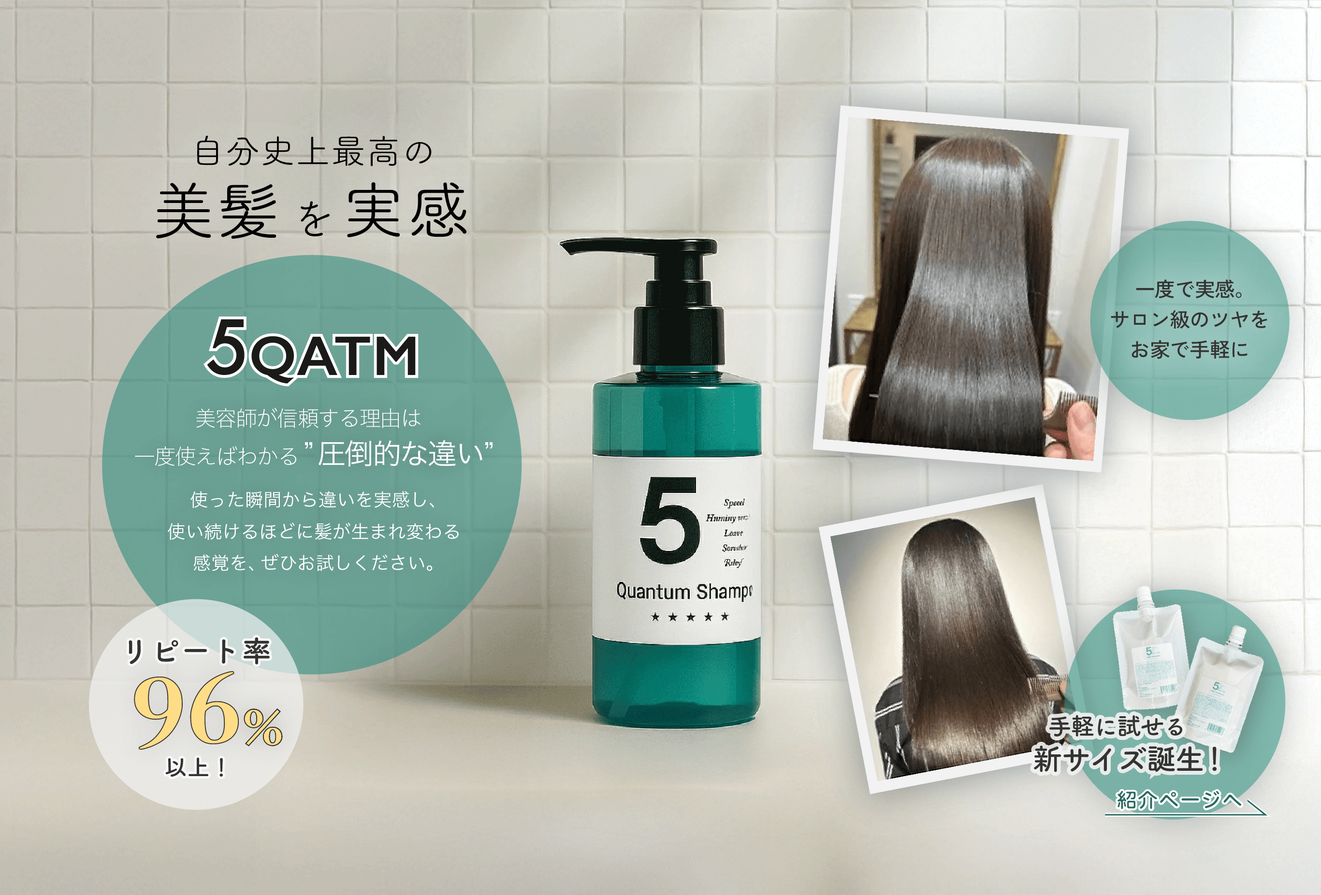
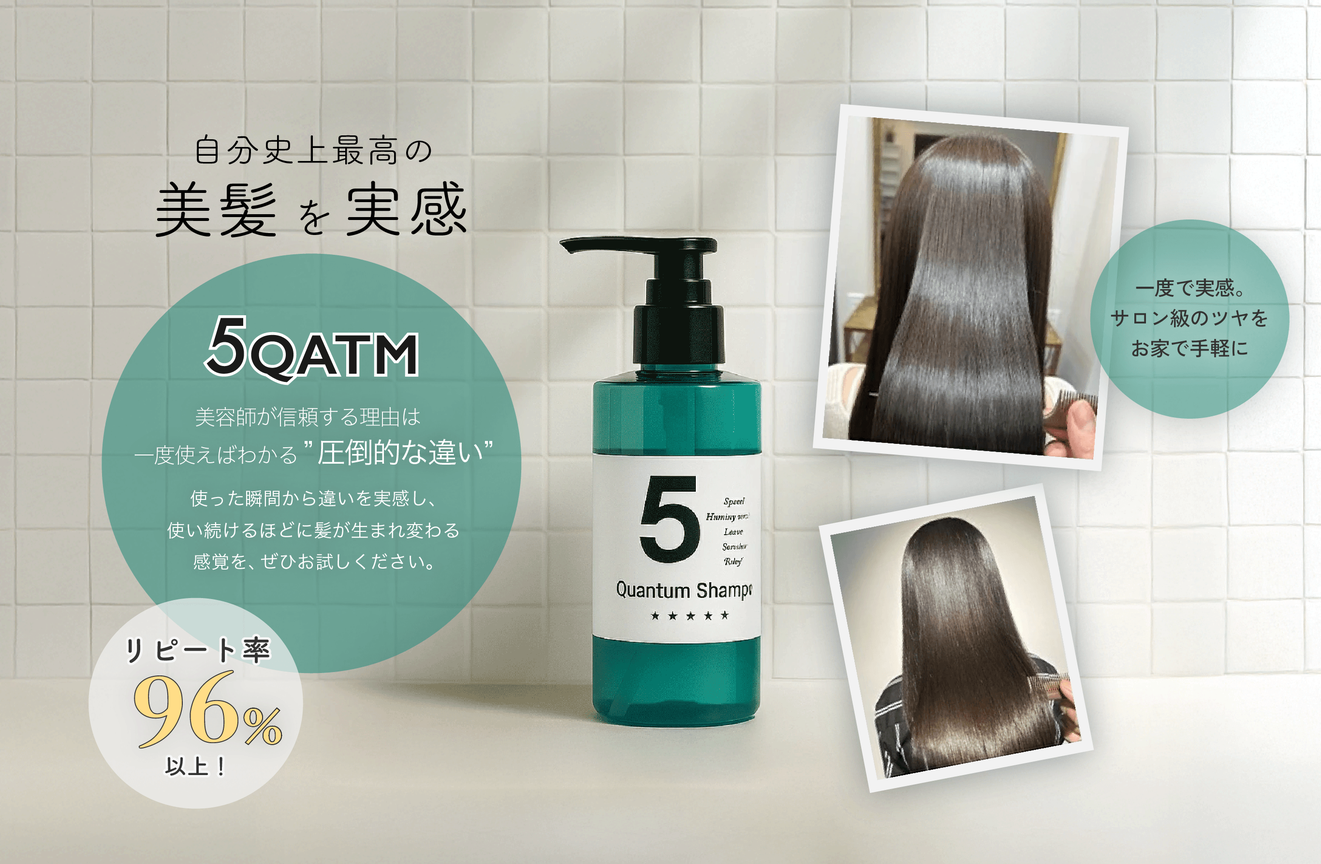
Added the button to the hero section

diff --git a/src/components/HeroSection.tsx b/src/components/HeroSection.tsx
@@ -1,13 +1,22 @@
 /**
  * HeroSection Component
- * Hero section displaying the main hero image.
- * Uses mobile-optimized image below 768px, desktop image otherwise.
+ * Hero section displaying the main hero image and bottom-right promo image.
+ * Uses mobile-optimized images below 768px, desktop images otherwise.
+ * Bottom image links to 5QATM Light products section.
  */
 
 import './HeroSection.css';
 import { imageAssets } from '../utils/imageAssets';
 
 const HeroSection = () => {
+  const handleScrollToLight = (e: React.MouseEvent<HTMLAnchorElement>) => {
+    e.preventDefault();
+    const target = document.getElementById('qatm-light');
+    if (target) {
+      target.scrollIntoView({ behavior: 'smooth' });
+    }
+  };
+
   return (
     <section id="top" className="hero-section">
       <picture>
@@ -21,6 +30,24 @@ const HeroSection = () => {
           className="hero-image"
         />
       </picture>
+      <a 
+        href="#qatm-light" 
+        onClick={handleScrollToLight}
+        className="hero-image-bottom-wrapper"
+        aria-label="Scroll to 5QATM Light Products"
+      >
+        <picture>
+          <source
+            media="(max-width: 768px)"
+            srcSet={imageAssets.heroImageBottomMobile}
+          />
+          <img
+            src={imageAssets.heroImageBottom}
+            alt="5QATM Light Products"
+            className="hero-image-bottom"
+          />
+        </picture>
+      </a>
     </section>
   );
 };

diff --git a/src/components/HeroSection.css b/src/components/HeroSection.css
@@ -1,10 +1,11 @@
 /**
  * HeroSection Styles
- * 
- * Full-width hero image section.
+ *
+ * Full-width hero image section with bottom-right promo image overlay.
  */
 
 .hero-section {
+  position: relative;
   width: 100%;
   display: flex;
   align-items: center;
@@ -17,6 +18,43 @@
   height: auto;
   display: block;
   object-fit: cover;
+}
+
+.hero-image-bottom-wrapper {
+  position: absolute;
+  bottom: 4vw;
+  right: 0;
+  margin: 0;
+  line-height: 0;
+  cursor: pointer;
+  text-decoration: none;
+  transition: transform 0.3s ease;
+}
+
+.hero-image-bottom-wrapper:hover {
+  transform: scale(1.05);
+}
+
+.hero-image-bottom-wrapper:active {
+  transform: scale(0.98);
+}
+
+.hero-image-bottom {
+  display: block;
+  width: 22vw;
+  height: auto;
+  object-fit: contain;
+  object-position: bottom right;
+}
+
+@media (max-width: 768px) {
+  .hero-image-bottom-wrapper {
+    bottom: 15vw;
+  }
+  
+  .hero-image-bottom {
+    width: 50vw;
+  }
 }
 
 

diff --git a/src/utils/imageAssets.ts b/src/utils/imageAssets.ts
@@ -10,6 +10,8 @@
 // Hero Section
 import heroImage from '../assets/hero-image.png';
 import heroImageMobile from '../assets/hero-image-mobile.png';
+import heroImageBottom from '../assets/hero-image-bottom.png';
+import heroImageBottomMobile from '../assets/hero-image-bottom-mobile.png';
 
 // About Section
 import aboutTopImages from '../assets/about-top-images.png';
@@ -67,6 +69,8 @@ export const imageAssets = {
   // Hero
   heroImage,
   heroImageMobile,
+  heroImageBottom,
+  heroImageBottomMobile,
   
   // About
   aboutTopImages,

diff --git a/src/components/Products_QatmLight.tsx b/src/components/Products_QatmLight.tsx
@@ -20,7 +20,7 @@ import Button_Rakuten from "./Button_Rakuten";
 
 const Products_QatmLight = () => {
     return (
-        <section className="products-qatm-light-section">
+        <section id="qatm-light" className="products-qatm-light-section">
             {/* Main Header */}
             <div className="light-header">
                 <h2><span className="header-bold"><span className="header-number">5</span>QATM</span> <span className="header-light">LIGHT</span></h2>
